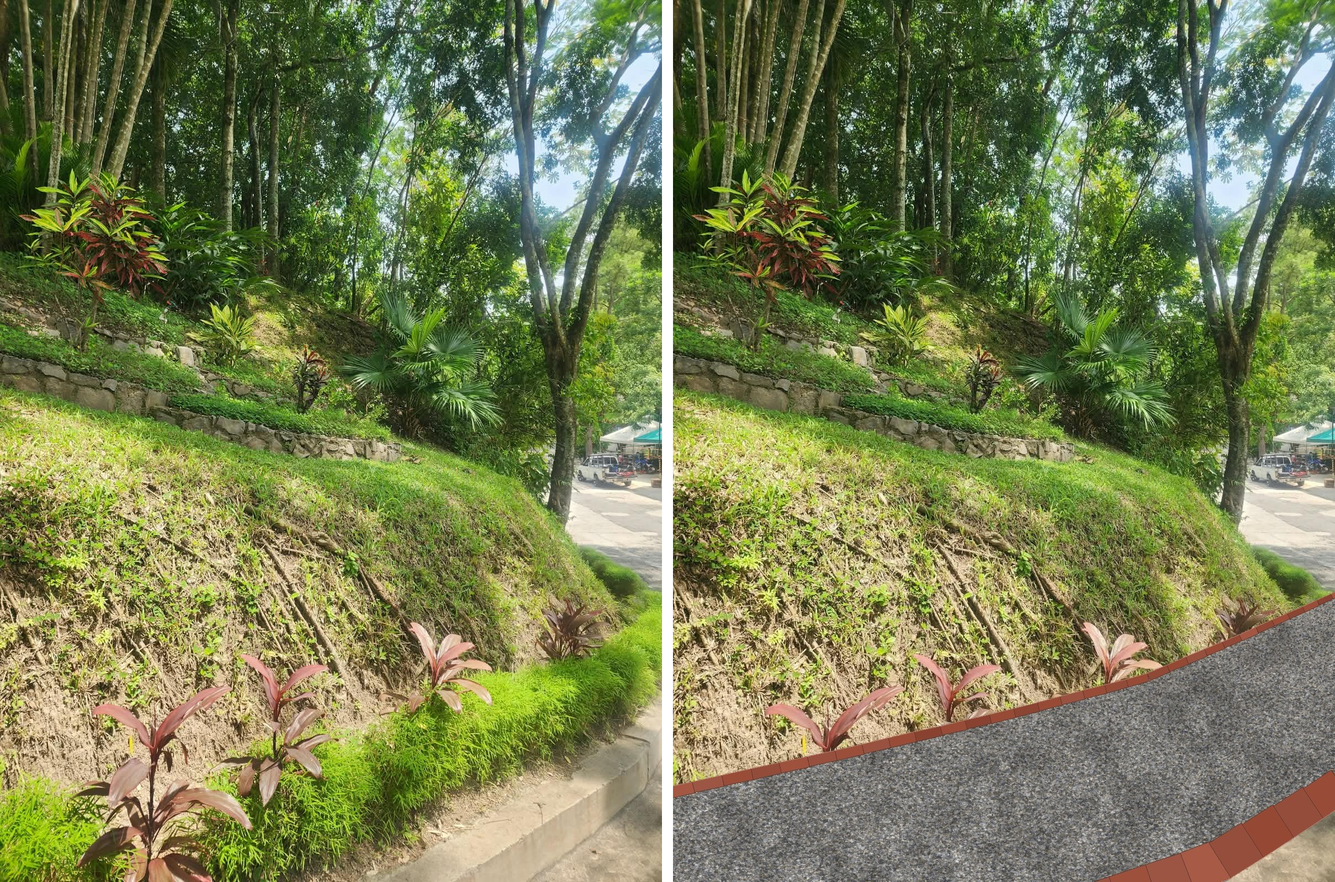
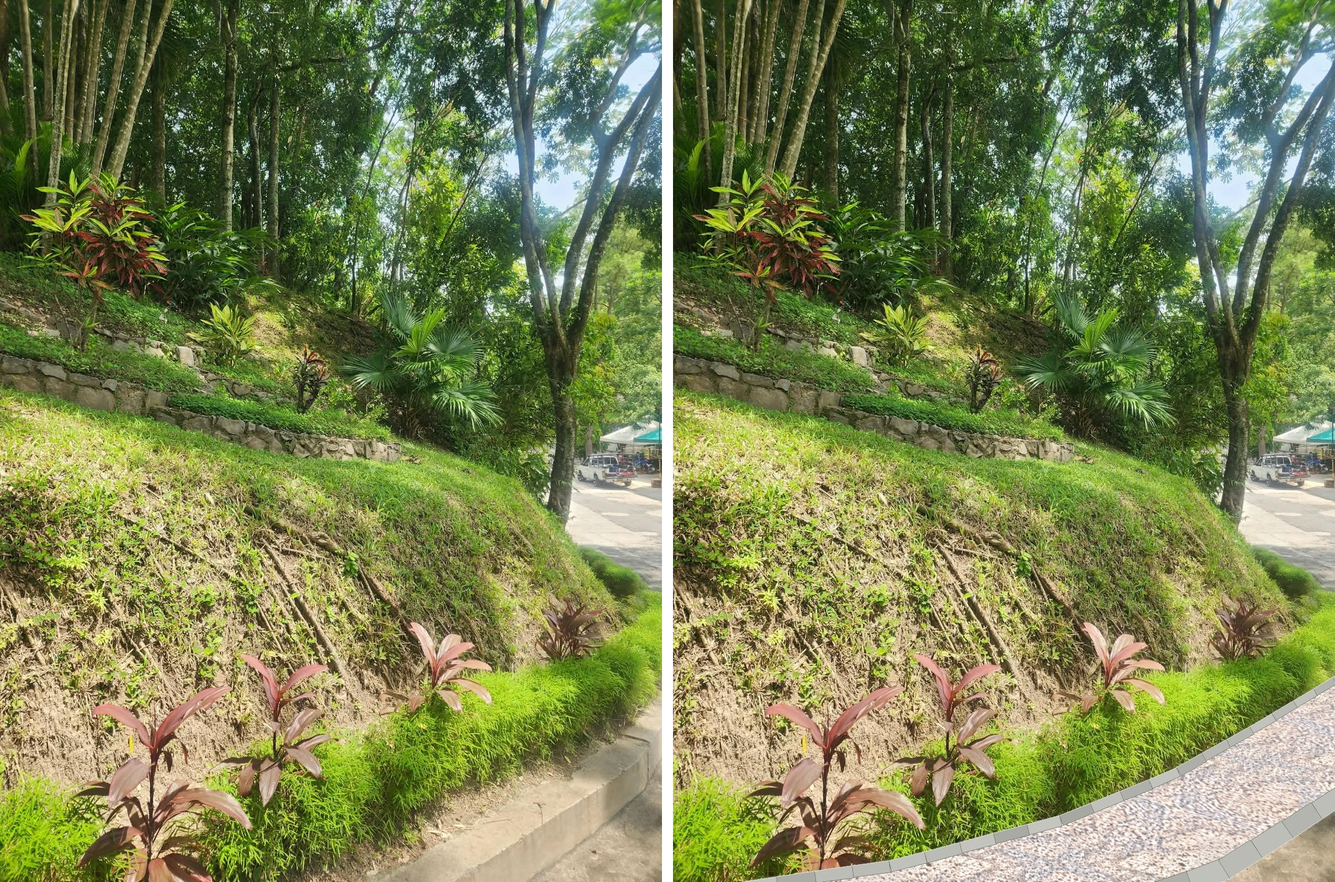
Caminho de pedrisco: pedrisco branco, guia cinza e faixa mais estreita na simulação
Claude-Session: https://claude.ai/code/session_014Sii85ditoeAXKfdRVsCjL

Changed region(s): [[0.4959, 0.6562, 1.0, 1.0]]

diff --git a/caminho_pedrisco/gerar_simulacao.py b/caminho_pedrisco/gerar_simulacao.py
@@ -3,25 +3,25 @@ from PIL import Image, ImageDraw, ImageFilter
 random.seed(3); np.random.seed(3)
 src=Image.open('foto_original.jpg').convert('RGB'); W,H=src.size
 # path edges (inner = slope side, outer = road side), sampled along t
-inner=[(-20,1430),(300,1360),(600,1290),(850,1225),(1030,1150),(1220,1065)]
-outer=[(-20,1700),(700,1700),(1000,1600),(1110,1530),(1200,1470),(1230,1450)]
+inner=[(-20,1620),(400,1560),(700,1480),(900,1400),(1060,1310),(1220,1215)]
+outer=[(-20,1760),(700,1700),(1000,1600),(1110,1530),(1200,1470),(1230,1450)]
 def interp(pts,n=200):
     pts=np.array(pts,float); d=np.r_[0,np.cumsum(np.hypot(*np.diff(pts,axis=0).T))]
     s=np.linspace(0,d[-1],n); return np.c_[np.interp(s,d,pts[:,0]),np.interp(s,d,pts[:,1])]
 I=interp(inner); O=interp(outer)
 def scale_at(y): return 0.35+0.65*np.clip((y-1050)/550,0,1)  # perspective size factor
-# gravel layer
-grav=Image.new('RGB',(W,H),(150,145,135)); gd=ImageDraw.Draw(grav)
-for _ in range(260000):
-    x=random.uniform(0,W); y=random.uniform(1000,H); s=scale_at(y)
-    r=random.uniform(1.2,3.2)*s*1.5
-    v=random.randint(105,205); tint=random.choice([(0,0,0),(10,6,-4),(-5,-3,2),(14,10,4)])
-    c=tuple(int(np.clip(v+t,0,255)) for t in tint)
-    nv=random.randint(4,6); ang=sorted(random.uniform(0,6.283) for _ in range(nv))
-    gd.polygon([(x+r*random.uniform(.6,1.1)*np.cos(a),y+0.6*r*random.uniform(.6,1.1)*np.sin(a)) for a in ang],fill=c,outline=tuple(max(0,k-45) for k in c))
-grav=grav.filter(ImageFilter.GaussianBlur(0.5))
-sh=np.random.rand(H//40+1,W//40+1); sh=np.asarray(Image.fromarray((sh*255).astype('uint8')).resize((W,H),Image.BICUBIC)).astype(float)/255
-grav=Image.fromarray(np.clip(np.asarray(grav)*(0.85+0.25*sh[...,None]),0,255).astype('uint8'))
+# gravel layer: textura real do pedrisco branco da imagem de referência,
+# com as sombras removidas e escalada conforme a perspectiva
+ref=Image.open('referencia_pedrisco_branco.jpg').convert('RGB').crop((930,830,1530,1024))
+t=np.asarray(ref).astype(float)
+lum=np.asarray(ref.convert('L').filter(ImageFilter.GaussianBlur(18))).astype(float)
+t=np.clip(212+(t/lum[...,None]*212-212)*0.75,0,255)
+t=np.concatenate([t,t[:,::-1]],1); t=np.concatenate([t,t[::-1]],0)  # espelha p/ ficar contínua
+th,tw=t.shape[:2]
+ys,xs=np.mgrid[0:H,0:W].astype(float)
+k=1/(scale_at(ys)*0.6)
+u=(xs*k).astype(int)%tw; v=(ys*k).astype(int)%th
+grav=Image.fromarray(t[v,u].astype('uint8')).filter(ImageFilter.GaussianBlur(0.7))
 mask=Image.new('L',(W,H),0); md=ImageDraw.Draw(mask)
 poly=[tuple(p) for p in I]+[tuple(p) for p in O[::-1]]
 md.polygon(poly,fill=255)
@@ -41,11 +41,11 @@ def edging(E, inward, base_w):
         if n[1]*inward<0: n=-n
         p=[seg[0],seg[1],seg[1]+n*bw,seg[0]+n*bw]
         sh=random.randint(-10,10)
-        col=(158+sh,82+sh,62+sh) if k%2==0 else (148+sh,76+sh,58+sh)
-        d.polygon([tuple(q) for q in p],fill=col,outline=(90,55,45))
+        col=(188+sh,188+sh,183+sh) if k%2==0 else (178+sh,178+sh,173+sh)
+        d.polygon([tuple(q) for q in p],fill=col,outline=(125,125,120))
         # top highlight
-        d.line([tuple(seg[0]),tuple(seg[1])],fill=(190,120,95),width=max(1,int(2*s)))
+        d.line([tuple(seg[0]),tuple(seg[1])],fill=(222,222,216),width=max(1,int(2*s)))
         pos=b; k+=1
-edging(I,+1,26)   # slope side
-edging(O,-1,75)   # road side (replaces curb)
-out.save('mockup.jpg',quality=92)
+edging(I,+1,22)   # slope side
+edging(O,-1,40)   # road side (replaces curb)
+out.save('simulacao.jpg',quality=92)

diff --git a/caminho_pedrisco/README.md b/caminho_pedrisco/README.md
@@ -1,11 +1,12 @@
-# Caminho de pedrisco (1 m) com meio-fio de paver
+# Caminho de pedrisco branco (1 m) com meio-fio de paver
 
 ![Antes e depois](antes_depois.jpg)
 
 Caminho de **1,00 m de largura total**, no lugar da faixa de grama e do meio-fio de
-concreto atuais, ao pé do talude. Acabamento em pedrisco, contido por uma linha de
-paver em pé de cada lado: um lado contra o talude e o outro substituindo o meio-fio
-junto à rua.
+concreto atuais, ao pé do talude. Acabamento em **pedrisco branco** (no padrão da imagem de referência
+`referencia_pedrisco_branco.jpg`), contido por uma linha de
+paver em pé de cada lado: em **cinza-claro**: um lado contra o talude e o outro
+substituindo o meio-fio junto à rua. A faixa de grama e as dracenas ficam onde estão.
 
 ## Corte transversal
 
@@ -26,8 +27,8 @@ junto à rua.
 
 ## Execução
 
-1. Retirar a grama ornamental, as dracenas (*Cordyline*) e o meio-fio de concreto.
-   Replantar as dracenas ao pé do talude, logo atrás da linha de paver.
+1. Retirar o meio-fio de concreto e só a parte da faixa de grama que fica dentro
+   do 1,00 m do caminho, preservando as dracenas (*Cordyline*).
 2. Escavar uns 15 cm e compactar o solo com placa vibratória ou soquete.
 3. Abrir uma vala de cada lado e assentar os pavers em pé sobre concreto
    (traço 1:3:4), com reforço de concreto pelo lado de fora. Conferir o
@@ -41,16 +42,16 @@ junto à rua.
 
 | Item | Quantidade/m | Observação |
 |---|---|---|
-| Paver 20×10×8 cm | 10 un | 5 por lado (+5 % de quebra) |
+| Paver 20×10×8 cm cinza-claro | 10 un | 5 por lado (+5 % de quebra) |
 | Concreto de fixação dos pavers | 0,03 m³ | ~0,015 m³ por lado |
 | Manta geotêxtil (bidim RT-10 ou similar) | 1,0 m² | |
 | Brita graduada / bica corrida | 0,07 m³ | +20 % de compactação → ~0,085 m³ |
-| Pedrisco (4,8–9,5 mm) | 0,045 m³ | ≈ 70 kg |
+| Pedrisco branco (mármore ou dolomita britada, 4,8–9,5 mm) | 0,045 m³ | ≈ 70 kg |
 | Escavação / bota-fora | 0,15 m³ | |
 
 Para chegar ao total da obra, é só multiplicar pelo comprimento. Exemplo com **20 m**:
 200 pavers, 0,6 m³ de concreto, 20 m² de manta, 1,7 m³ de brita graduada,
-0,9 m³ de pedrisco (≈1,4 t).
+0,9 m³ de pedrisco branco (≈1,4 t).
 
 ## Cuidados
 
@@ -60,8 +61,9 @@ Para chegar ao total da obra, é só multiplicar pelo comprimento. Exemplo com *
 - **Inclinação:** se o caminho tiver mais de ~5 % de declive no sentido do
   comprimento, o pedrisco tende a escorrer. Nesse caso, use grelha estabilizadora
   (colmeia plástica) sob o pedrisco ou faça travessas de paver a cada 2–3 m.
-- **Pedrisco:** prefira pedra britada angular, que trava melhor do que seixo
-  rolado. Faça uma reposição leve uma vez por ano.
+- **Pedrisco branco:** prefira mármore ou dolomita britados (angulares), que travam
+  melhor do que seixo rolado. O branco mostra terra e folhas, então vale passar o
+  soprador ou o rastelo com frequência e fazer uma reposição leve uma vez por ano.
 - **Água do talude:** se escorre muita terra na chuva, vale fazer uma canaleta ou
   um dreno raso junto à linha de paver do lado do talude.
 
